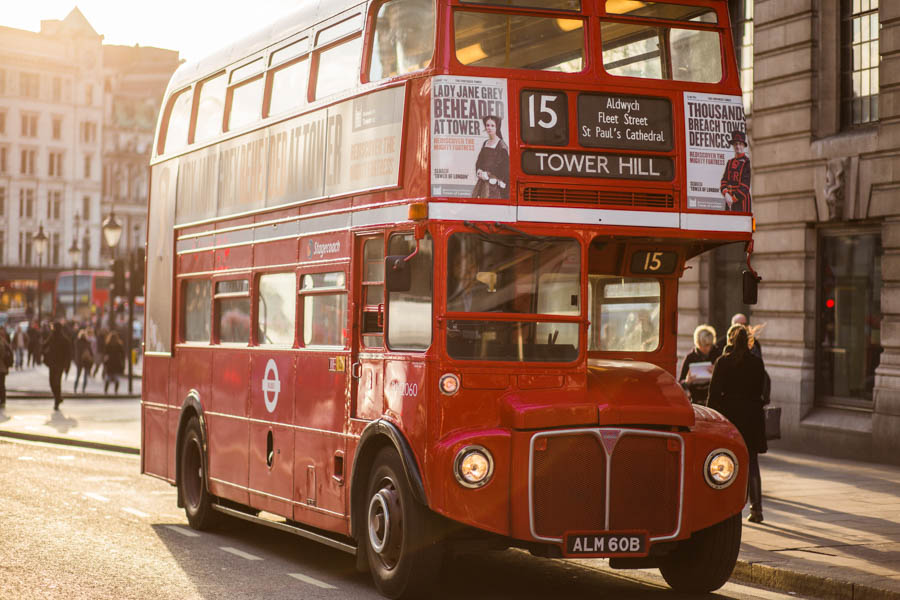
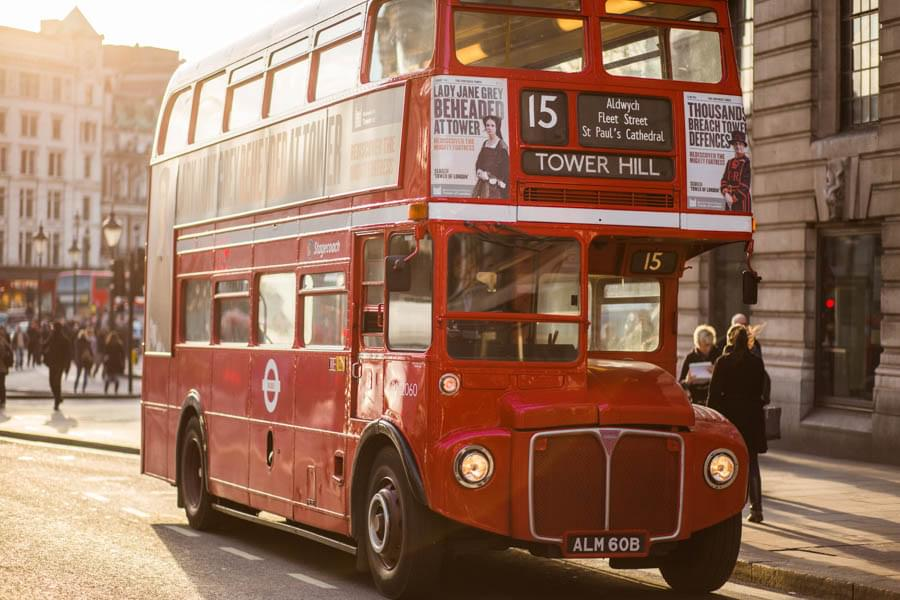
images optimized

diff --git a/gulpfile.js b/gulpfile.js
@@ -4,6 +4,7 @@ var gulp = require('gulp');
 var sass = require('gulp-sass');
 var imagemin = require('gulp-imagemin');
 var imageop = require('gulp-image-optimization');
+var image = require('gulp-image');
 
 
 gulp.task('imagesop', function(cb) {
@@ -11,7 +12,10 @@ gulp.task('imagesop', function(cb) {
         optimizationLevel: 5,
         progressive: true,
         interlaced: true
-    })).pipe(gulp.dest('assets')).on('end', cb).on('error', cb);
+    }))
+    .pipe(imagemin())
+    .pipe(image())
+    .pipe(gulp.dest('assets')).on('end', cb).on('error', cb);
 });
 
 
